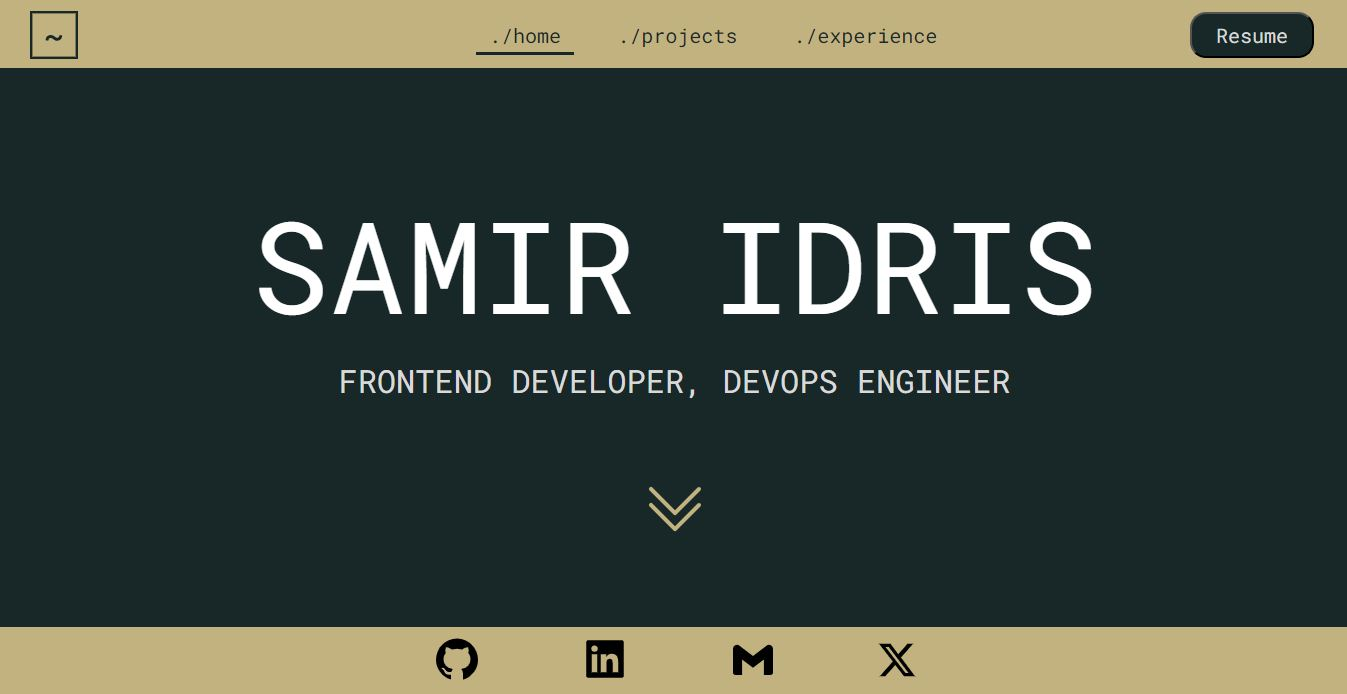
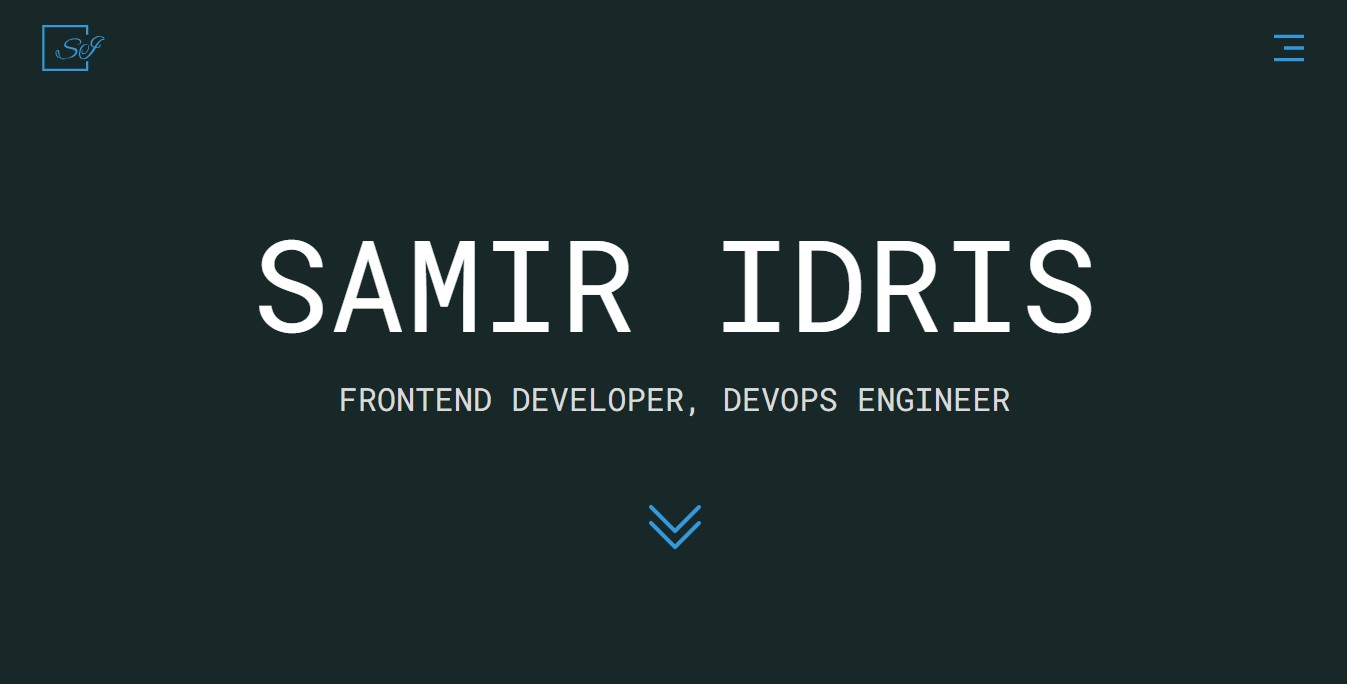
portfolio ui revamp

diff --git a/src/layout/Header/styles.css b/src/layout/Header/styles.css
@@ -9,48 +9,53 @@
 
 nav {
   text-align: left;
-  background: #C2B280;
-  height: 70px;
+  height: 100px;
   width: 100%;
   position: fixed;
-  border-bottom: 2px solid #182828;
+  transition: all .5s;
 }
 
 label.logo {
   display: inline-block;
-  margin-top: calc((70px - 3rem) / 2);
-  padding: 0 30px;
+  margin-left: 40px;
+  height: 100px;
 }
 
 .rootLogo > img {
-  height: 3rem;
-  width: 3rem;
+  margin-top: 25px;
+  height: 50px;
 }
 
 nav ul {
-  float: right;
-  margin-right: 20px;
+  width: 100%;
+  position: fixed;
+  height: 100vh;
+  background: #182828;
+  top: 100px;
+  left: -100%;
+  text-align: center;
+  transition: all .5s;
 }
 
 nav ul li {
-  display: inline-block;
-  line-height: 70px;
-  margin: 0 10px;
-  font-size: 20px;
+  display: block;
+  margin: 32px 0;
+  line-height: 30px;
 }
 
 nav > ul > li > a {
-  color: #182828;
+  color: #EAEAEA;
   padding: 7px 10px;
   position: relative;
-  text-transform: uppercase;
-  font-size: 1.5rem;
+  text-transform: capitalize;
+  font-size: 20px;
+  font-weight: 400;
 }
 
 nav > ul > li > a:after {
   content: "";
   position: absolute;
-  background-color: #182828;
+  background-color: #3182ce;
   height: 3px;
   width: 0;
   left: 0;
@@ -68,23 +73,24 @@ nav > ul > li > a.active:after {
 }
 
 nav > ul > li > button {
-  margin-left: calc(30vw - 250px);
-  background: #182828;
+  margin-top: 24px; 
+  background: #3182ce;
   padding: 0.5rem 1.5rem;
   border-radius: 16px;
+  border: none;
 }
 
 a.resume {
-  font-size: 20px;
   color: #D9D9D9;
+  font-weight: 600;
+  font-size: 20px;
 }
 
 .hamb {
   float: right;
-  margin-top: calc((70px - 2.5rem) / 2);
-  margin-right: 20px;
+  margin-top: calc((100px - 2.5rem) / 2);
+  margin-right: 40px;
   cursor: pointer;
-  display: none;
 }
 
 .hambChild {
@@ -99,52 +105,35 @@ a.resume {
   display: none;
 }
 
+#check:checked ~ ul {
+  left: 0;
+}
+#check:checked ~ label .hambClose {
+  display: inline-block;
+}
+#check:checked ~ label .hambOpen {
+  display: none;
+}
+
 
 /* RESPONSIVENESS */
 
-@media screen and (max-width: 1024px) {
-  .hamb {
-    display: block;
-  }
-  nav ul {
-    width: 100%;
-    position: fixed;
-    height: 100vh;
-    background: #C2B280;
-    top: 70px;
-    left: -100%;
-    text-align: center;
-    transition: all .5s;
-  }
-  nav ul li {
-    display: block;
-    margin: 32px 0;
-    line-height: 30px;
-  }
-  nav ul li a {
-    font-size: 20px;
-  }
-  nav > ul > li > button {
-    margin-left: 0;
-    margin-top: 24px;
-  }
-  #check:checked ~ ul {
-    left: 0;
-  }
-  #check:checked ~ label .hambClose {
-    display: inline-block;
-  }
-  #check:checked ~ label .hambOpen {
-    display: none;
-  }
-}
-
 @media screen and (max-width: 636px) {
+  label.logo {
+    margin-left: 35px;
+  }
+  .hamb {
+    margin-right: 35px;
+  }
   nav ul li {
-    margin: 24px 0;
-    line-height: 18px;
+    margin: 26px 0;
+    line-height: 24px;
   }
   nav > ul > li > button {
-    margin-top: 16px;
+    margin-top: 20px;
+  }
+  nav > ul > li > a,
+  a.resume {
+    font-size: 16px;
   }
 }

diff --git a/src/layout/Header/Header.tsx b/src/layout/Header/Header.tsx
@@ -38,6 +38,16 @@ export default function Header() {
 			checkbox.checked = false;
 		};
 
+		// handle nav color change
+		const nav = document.querySelector("nav");
+		const handleNavColor = () => {
+			if (checkbox.checked) {
+				nav.style.background = "#182828"
+			} else {
+				nav.style.background = "none"
+			}
+		};
+
 		// add scroll event listener
 		window.addEventListener("scroll", handleScroll);
 
@@ -46,11 +56,15 @@ export default function Header() {
 			page_link.addEventListener("click", handleLinkClick);
 		}
 
+		// add nav color event listener
+		checkbox.addEventListener("change", handleNavColor);
+
 		return () => {
 			window.removeEventListener("scroll", handleScroll);
 			for (const page_link of page_links) {
 				page_link.removeEventListener("click", handleLinkClick);
-			}
+			};
+			checkbox.removeEventListener("change", handleNavColor);
 		};
 	}, []);
 
@@ -59,8 +73,8 @@ export default function Header() {
 			<nav>
 				<input type="checkbox" id="check" />
 				<label htmlFor="check" className='hamb'>
-					<RiMenu3Fill className="hambOpen hambChild" color="#182828" fontSize="2.5rem" />
-					<AiOutlineClose className="hambClose hambChild" color="#182828" fontSize="2.5rem" />
+					<RiMenu3Fill className="hambOpen hambChild" color="#3498db" fontSize="2.5rem" />
+					<AiOutlineClose className="hambClose hambChild" color="#3498db" fontSize="2.5rem" />
 				</label>
 				<label className='logo'>
 					<a className="rootLogo" href="\">
@@ -69,9 +83,9 @@ export default function Header() {
 				</label>
 				<ul>
 					<li><a href="#homepage" className='page_link active'>home</a></li>
-					<li><a href="#projects" className='page_link'>projects</a></li>
-					<li><a href="#experience" className='page_link'>experience</a></li>
 					<li><a href="#about" className='page_link'>about</a></li>
+					<li><a href="#experience" className='page_link'>experience</a></li>
+					<li><a href="#projects" className='page_link'>projects</a></li>
 					<li><a href="#contact" className='page_link'>contact</a></li>
 					<li><button><a className="resume" href="https://drive.google.com/file/d/11G1CC_lACHDYSAScYctRg0zv7wPOJmIx/view?usp=sharing" target="_blank">Resume</a></button></li>
 				</ul>

diff --git a/src/pages/Homepage/Homepage.tsx b/src/pages/Homepage/Homepage.tsx
@@ -7,7 +7,7 @@ export default function HomePage() {
 		<section id="homepage">
 			<p id="name">SAMIR IDRIS</p>
 			<p id="intro">FRONTEND DEVELOPER, DEVOPS ENGINEER</p>
-			<div id='arrDown'><BsChevronDoubleDown color="#C2B280" fontSize="4rem" /></div>
+			<div id='arrDown'><BsChevronDoubleDown color="#3498db" fontSize="4rem" /></div>
 		</section>
 	)
 }

diff --git a/src/pages/Contact/styles.css b/src/pages/Contact/styles.css
@@ -100,13 +100,14 @@ section#contact form textarea {
 }
 
 section#contact form button {
-    background: #C2B280;
+    background: #3182ce;
     padding: 0.5rem 1.5rem;
     border-radius: 16px;
     font-size: 20px;
     color: #161616;
     display: block;
     margin: 0 auto;
+    border: none;
 }
 
 

diff --git a/src/pages/About/styles.css b/src/pages/About/styles.css
@@ -31,9 +31,10 @@ section#about > div .myPix {
 }
 
 section#about figure button {
-    background: #182828;
+    background: #3498db;
     padding: 0.5rem 1.5rem;
     border-radius: 16px;
+    border: none;
     font-size: 16px;
     color: #ffffff;
     display: block;

diff --git a/src/App.tsx b/src/App.tsx
@@ -13,9 +13,9 @@ function App() {
     <>
       <Header />
       <HomePage />
-      <Projects />
-      <Experience />
       <About />
+      <Experience />
+      <Projects />
       <Contact />
       <Footer />
     </>

diff --git a/src/pages/Projects/Project/styles.css b/src/pages/Projects/Project/styles.css
@@ -68,7 +68,7 @@
     border-radius: 6px;
     border: none;
     font-weight: 600;
-    background: #182828;
+    background: #3498db;
     color: #DDDDDD;
     display: flex;
     gap: 8px;

diff --git a/src/pages/Homepage/styles.css b/src/pages/Homepage/styles.css
@@ -10,7 +10,7 @@
 
 section#homepage {
   background: #182828;
-  padding-top: 180px;
+  padding-top: 200px;
   height: 91vh;
   min-height: 700px;
 }
